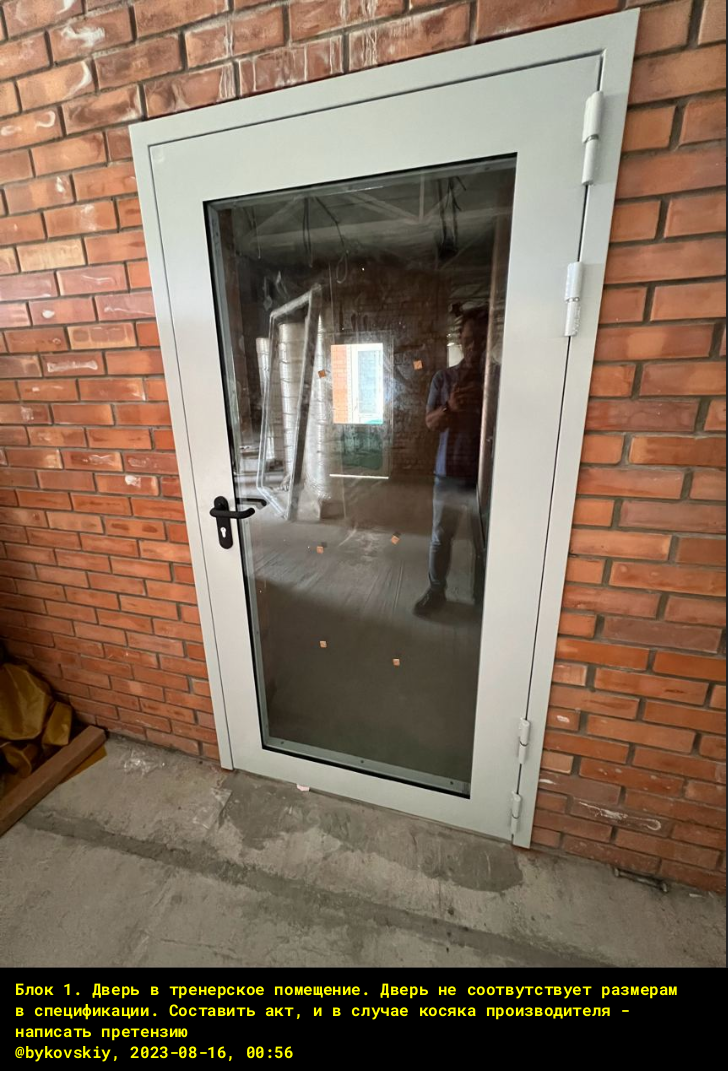
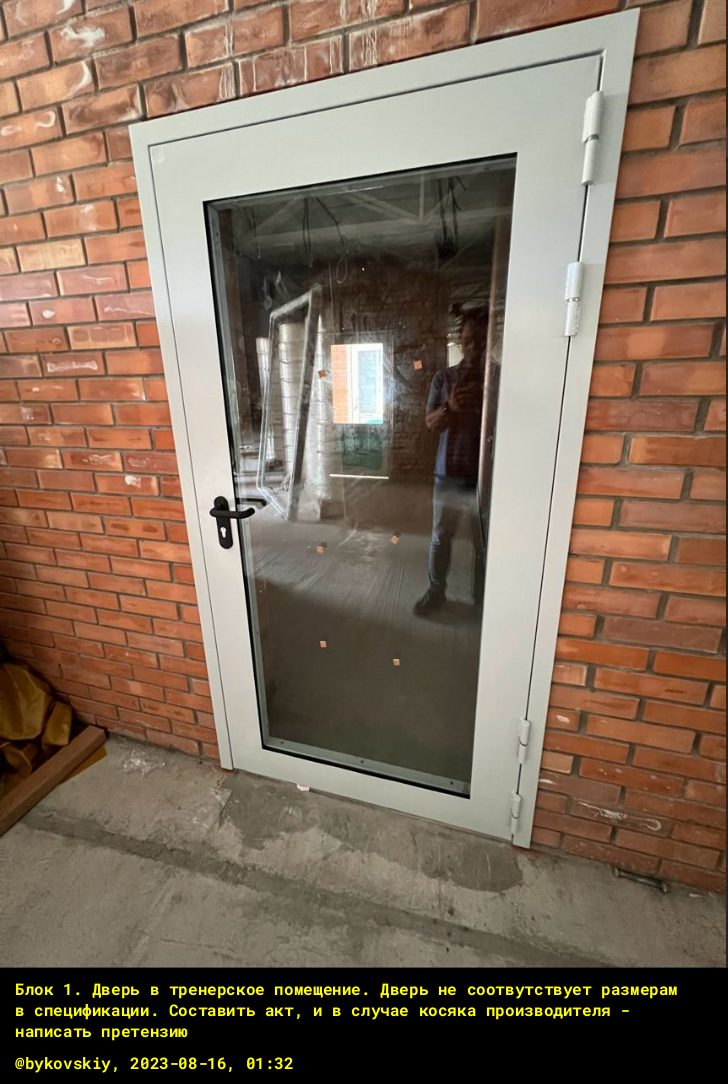
update

diff --git a/main.py b/main.py
@@ -36,12 +36,27 @@ def add_message(image, text, font, text_color, text_start_height, fontsize, spac
     #     y_text += fontsize*spacing
         
     #return y_text
-    print(fontsize*spacing*math.ceil((len(text) / max_char_count)))
+    print(y_text + fontsize*spacing*math.ceil((len(text) / max_char_count)))
     return y_text + fontsize*spacing * math.ceil((len(text) / max_char_count))
     
+def get_marking_data(message_sender):
+    current_time = datetime.now()
+    
+    date = current_time.strftime('%Y-%m-%d')
+    timer = current_time.strftime('%H:%M')
+    
+    text = f'@{message_sender}, {date}, {timer}'
+    return text
 
-def make_wrapper(font, fontsize, text, image, spacing, padding_bottom):
-    sender_mark_space = 45 + padding_bottom
+def get_extra_space_size(message_sender, font, image, fontsize, spacing):
+    text = get_marking_data(message_sender)
+    text, max_char_count = get_text_wrapper(font, image, text)
+    
+    return fontsize*spacing * math.ceil((len(text) / max_char_count)) * 3
+    
+
+def make_wrapper(font, fontsize, text, image, spacing, padding_bottom, padding_top, extra_space_size):
+    sender_mark_space = extra_space_size + padding_bottom + padding_top
     
     #lines = textwrap.wrap(text, width=image.width // 10)
     
@@ -56,24 +71,29 @@ def make_wrapper(font, fontsize, text, image, spacing, padding_bottom):
     
     return wrapper, extra_bound_size
 
-def sender_mark(image_wrapper, message_sender, text_start, font, text_color, padding_left):
-    current_time = datetime.now()
-    text_top_padding = 5
+
+
+def sender_mark(image_wrapper, message_sender, text_start, font, text_color, padding_left, fontsize,spacing):
+    #current_time = datetime.now()
+    #text_top_padding = 5
     
-    date = current_time.strftime('%Y-%m-%d')
-    timer = current_time.strftime('%H:%M')
+    # date = current_time.strftime('%Y-%m-%d')
+    # timer = current_time.strftime('%H:%M')
     
-    text = f'@{message_sender}, {date}, {timer}'
+    # text = f'@{message_sender}, {date}, {timer}'
+    text = get_marking_data(message_sender)
     #lines = textwrap.wrap(text, width=image_wrapper.width//10)
     
     draw_img = ImageDraw.Draw(image_wrapper)
     
-    y_text = text_start + text_top_padding
+    #y_text = text_start # + text_top_padding
     # for line in lines:
     #     draw_img.text((padding_left, y_text), 
     #               line, font=font, fill=text_color)
     #     y_text += fontsize*spacing
-    text, _ = get_text_wrapper(font, image_wrapper, text)
+    text, max_char_count = get_text_wrapper(font, image_wrapper, text)
+    y_text = text_start + fontsize*spacing * math.ceil((len(text) / max_char_count))
+    
     draw_img.text((padding_left, y_text), text, font=font, fill=text_color, align='left')
 
 # def get_dynamic_fontsize(image, text, font_name):
@@ -106,16 +126,19 @@ def main():
     padding_top = 10
     padding_bottom = 10
     padding_left = 15
+    text_top_padding = 10
     spacing = 1
     
     image = Image.open(f'./images/{image_name}')
     #font, fontsize = get_dynamic_fontsize(image, text, font_name)
     
-    image_wrapper, bound_size = make_wrapper(font, fontsize, text, image, spacing, padding_bottom)
+    extra_space_size = get_extra_space_size(message_sender, font, image, fontsize, spacing)
+    
+    image_wrapper, bound_size = make_wrapper(font, fontsize, text, image, spacing, padding_bottom, padding_top, extra_space_size)
     text_start_height = image_wrapper.height - int(bound_size) + padding_top
     
     text_end_line = add_message(image_wrapper, text, font, text_color, text_start_height, fontsize, spacing, padding_left)
-    sender_mark(image_wrapper, message_sender, text_end_line + padding_top, font, text_color, padding_left)
+    sender_mark(image_wrapper, message_sender, text_end_line + text_top_padding, font, text_color, padding_left, fontsize, spacing)
     
     image_wrapper.save(f'./results/{image_name}')
 
